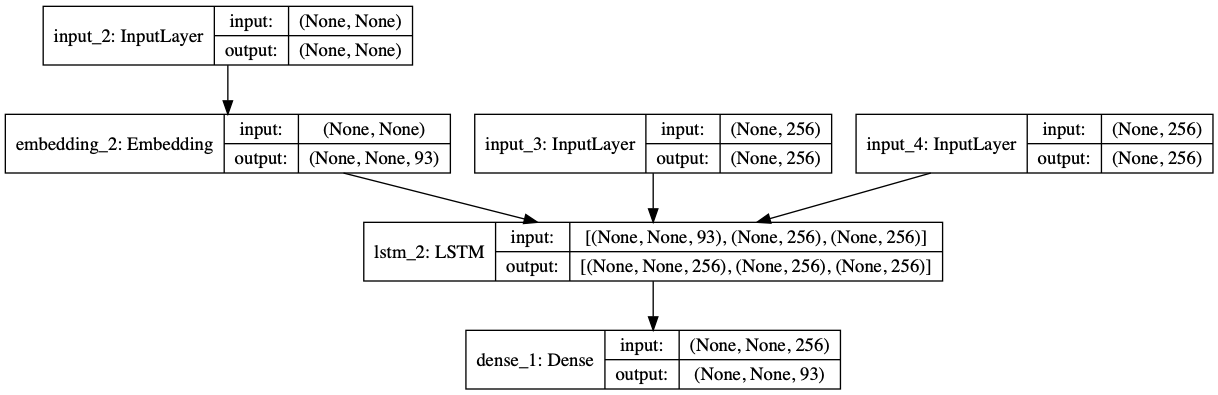
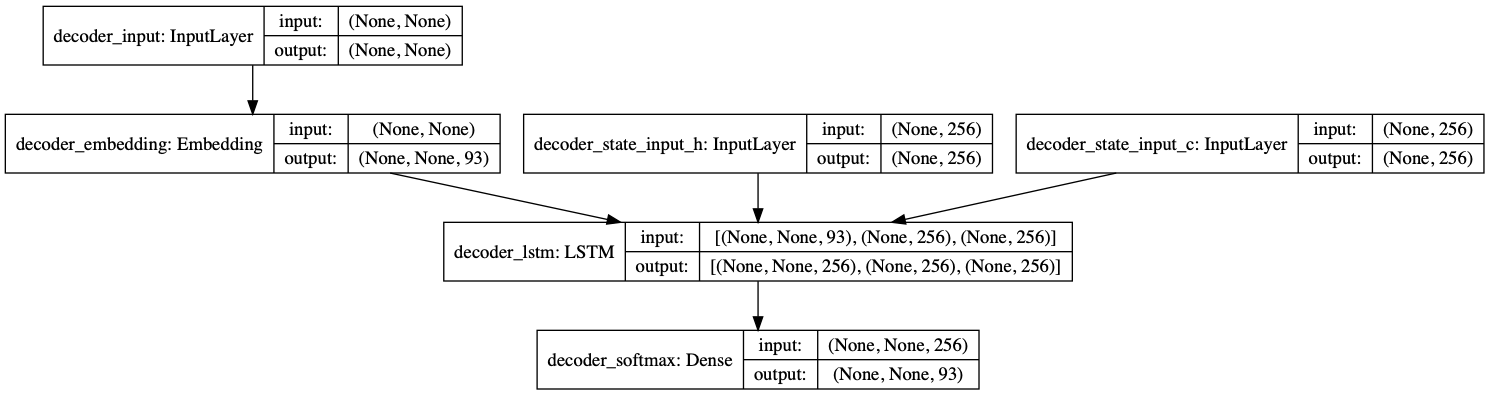
name nodes in seq2seq model

diff --git a/src/seq2seq.py b/src/seq2seq.py
@@ -16,44 +16,48 @@ class Seq2Seq:
         self.end_token = end_token
 
         # Define an input sequence and process it.
-        encoder_inputs = Input(shape=(None,))
+        encoder_inputs = Input(shape=(None,), name='encoder_input')
         if projection == 'one_hot':
             embedding = Embedding(
                 num_encoder_tokens+1,
                 num_encoder_tokens,
                 weights=[np.concatenate((np.zeros(shape=(1, num_encoder_tokens)), np.identity(num_encoder_tokens)))],
                 trainable=False,
-                mask_zero=True
+                mask_zero=True,
+                name='encoder_embedding'
             )
         elif projection == 'word2vec':
             embedding = Embedding(
                 num_encoder_tokens + 1,
                 emb_dim,
-                mask_zero=True
+                mask_zero=True,
+                name='encoder_embedding'
             )
         else:
              raise Exception("projection method not recognized")
         encoder_emb = embedding(encoder_inputs)
-        encoder = LSTM(latent_dim, return_state=True)
+        encoder = LSTM(latent_dim, return_state=True, name='encoder_lstm')
         encoder_outputs, state_h, state_c = encoder(encoder_emb)
         # We discard `encoder_outputs` and only keep the states.
         encoder_states = [state_h, state_c]
 
         # Set up the decoder, using `encoder_states` as initial state.
-        decoder_inputs = Input(shape=(None,))
+        decoder_inputs = Input(shape=(None,), name='decoder_input')
         if projection == 'one_hot':
             embedding = Embedding(
                 num_decoder_tokens+1,
                 num_decoder_tokens,
                 weights=[np.concatenate((np.zeros(shape=(1, num_decoder_tokens)), np.identity(num_decoder_tokens)))],
                 trainable=False,
-                mask_zero=True
+                mask_zero=True,
+                name='decoder_embedding'
             )
         elif projection == 'word2vec':
             embedding = Embedding(
                 num_decoder_tokens+1,
                 emb_dim,
-                mask_zero=True
+                mask_zero=True,
+                name='decoder_embedding'
             )
         else:
             raise Exception("projection method not recognized")
@@ -61,10 +65,10 @@ class Seq2Seq:
         # We set up our decoder to return full output sequences,
         # and to return internal states as well. We don't use the
         # return states in the training model, but we will use them in inference.
-        decoder_lstm = LSTM(latent_dim, return_sequences=True, return_state=True)
+        decoder_lstm = LSTM(latent_dim, return_sequences=True, return_state=True, name='decoder_lstm')
         decoder_outputs, _, _ = decoder_lstm(decoder_emb,
                                              initial_state=encoder_states)
-        decoder_dense = Dense(self.num_decoder_tokens, activation='softmax')
+        decoder_dense = Dense(self.num_decoder_tokens, activation='softmax', name='decoder_softmax')
         decoder_outputs = decoder_dense(decoder_outputs)
 
         # Define the model that will turn
@@ -74,8 +78,8 @@ class Seq2Seq:
         # Define sampling models
         self.encoder_model = Model(encoder_inputs, encoder_states)
 
-        decoder_state_input_h = Input(shape=(latent_dim,))
-        decoder_state_input_c = Input(shape=(latent_dim,))
+        decoder_state_input_h = Input(shape=(latent_dim,), name='decoder_state_input_h')
+        decoder_state_input_c = Input(shape=(latent_dim,), name='decoder_state_input_c')
         decoder_states_inputs = [decoder_state_input_h, decoder_state_input_c]
         decoder_outputs, state_h, state_c = decoder_lstm(
             decoder_emb, initial_state=decoder_states_inputs)
